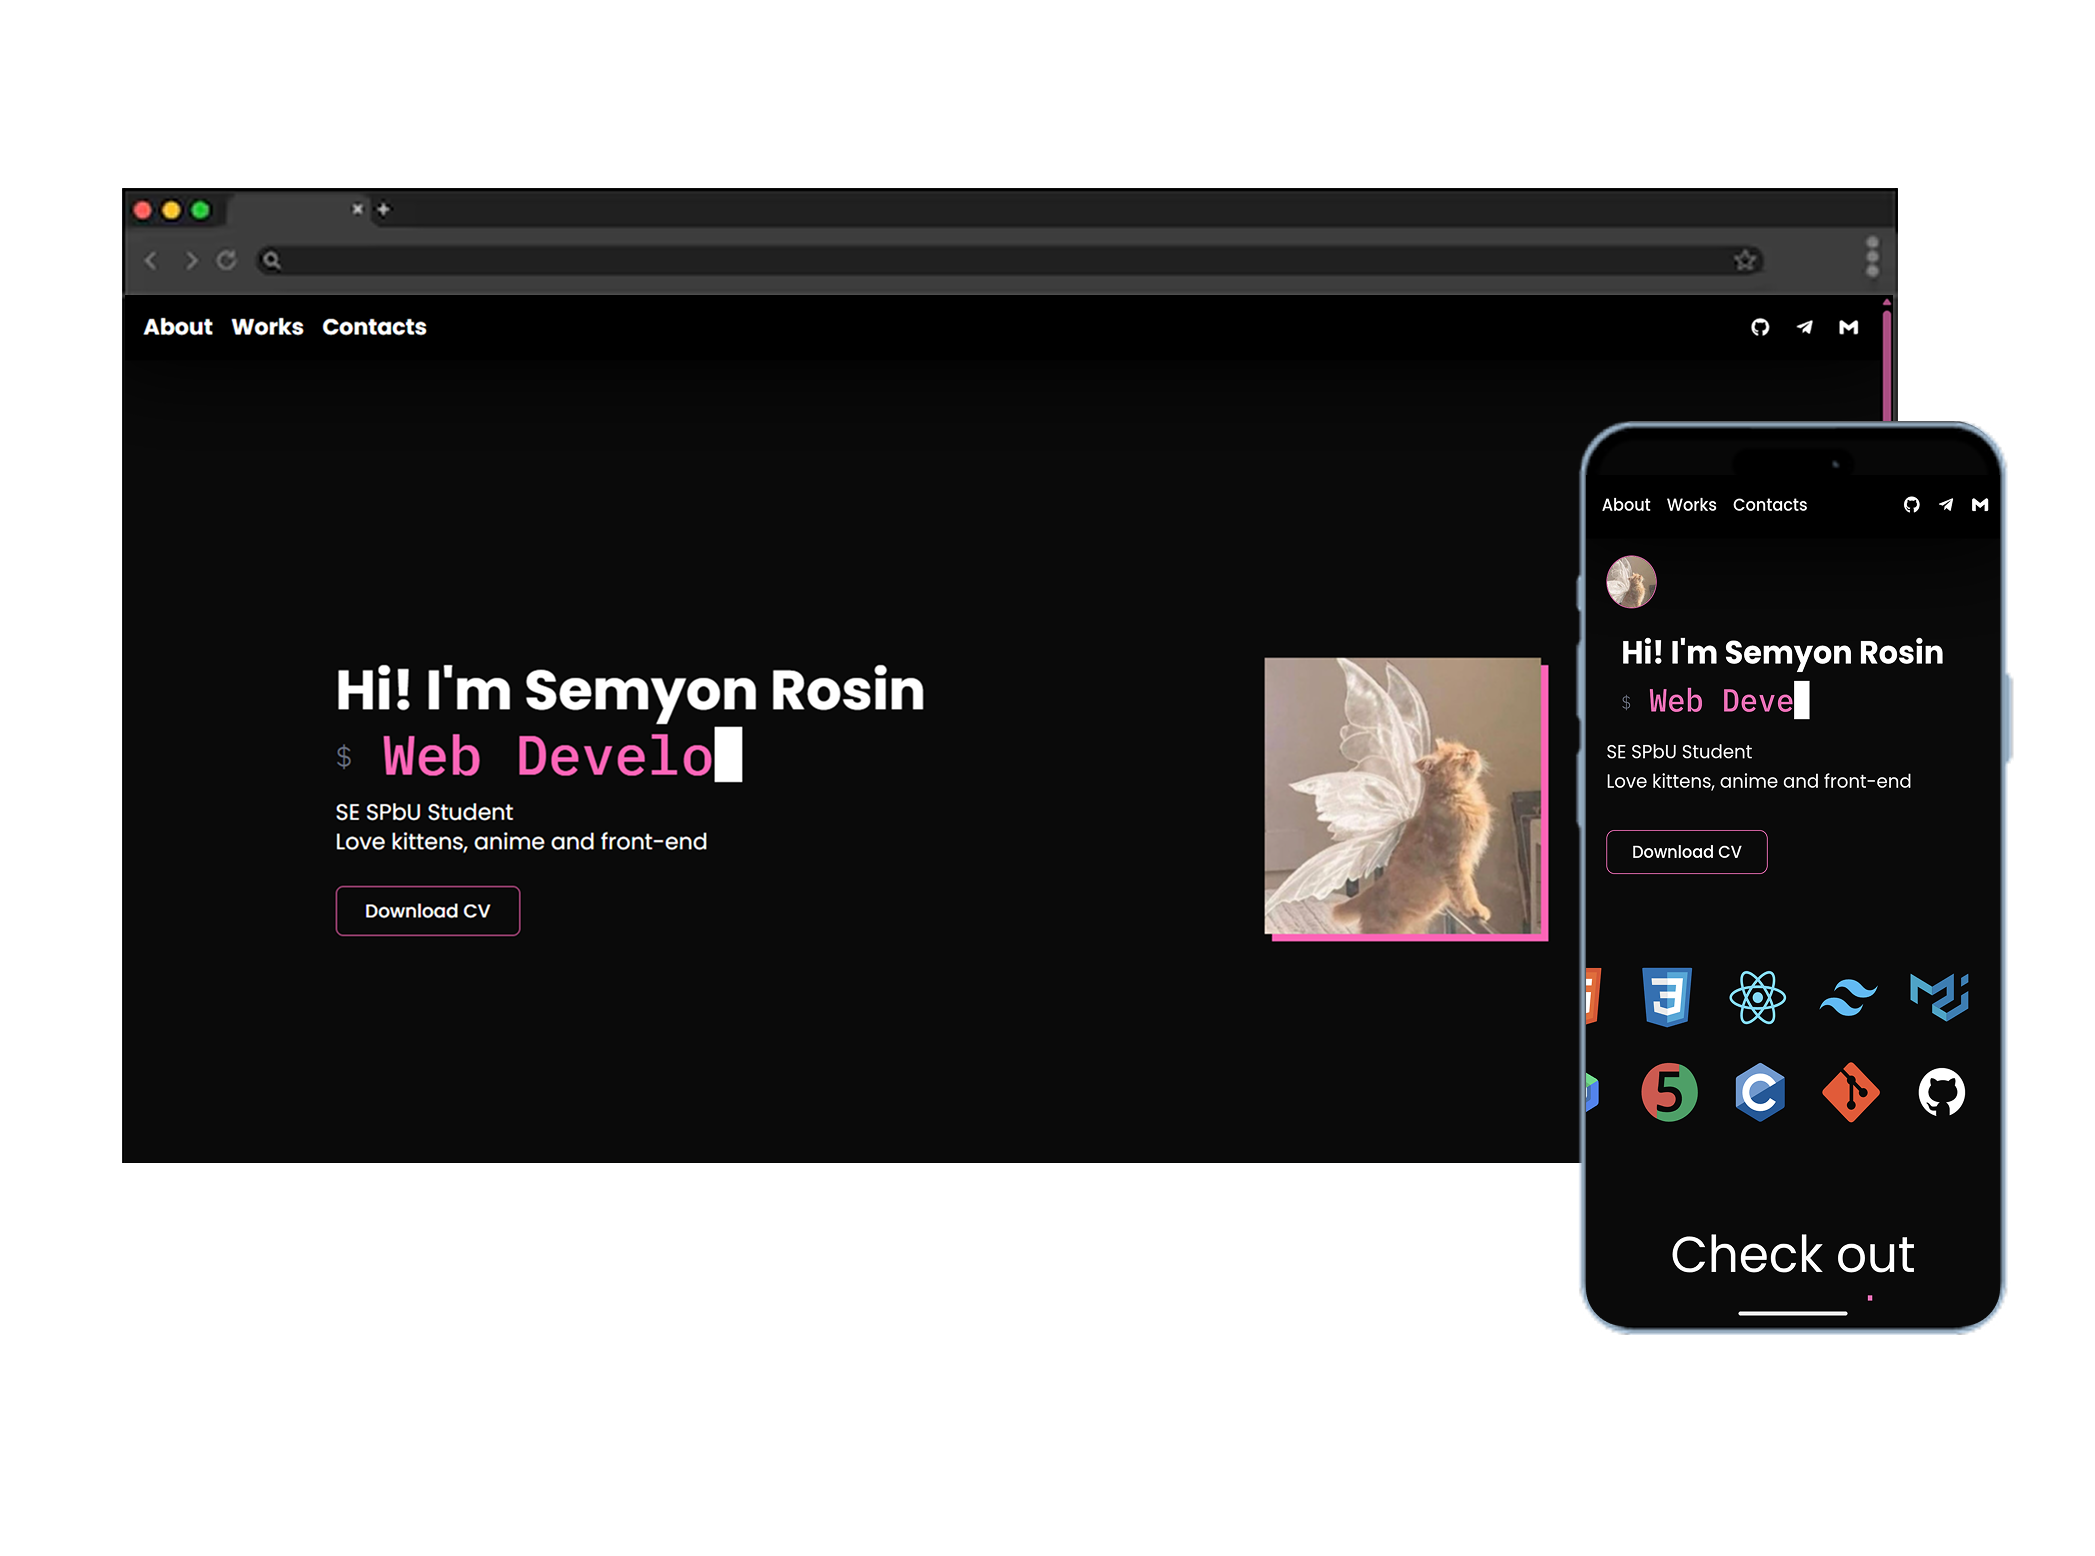
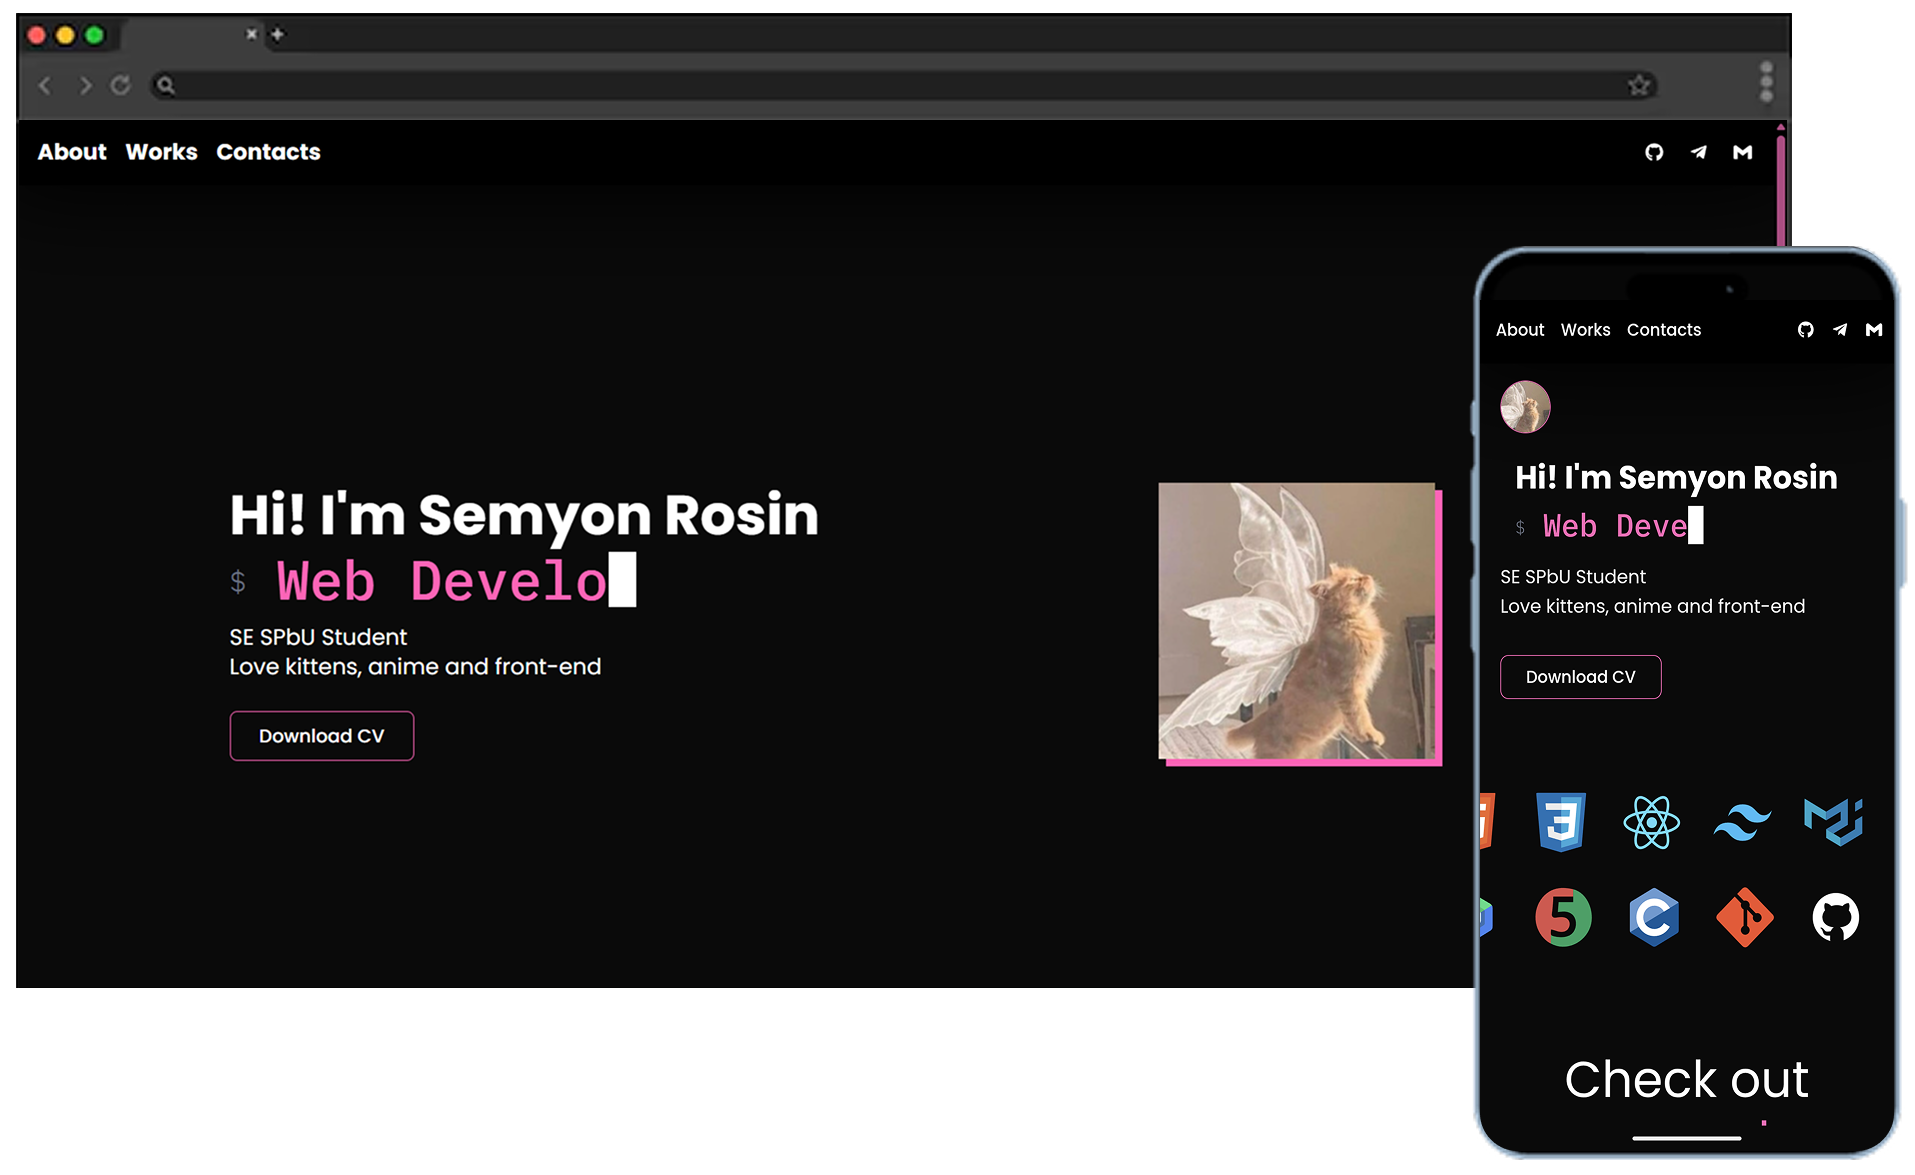
fix: pictures in project pages

diff --git a/src/sections/ProjectDetails.jsx b/src/sections/ProjectDetails.jsx
@@ -4,7 +4,7 @@ function ProjectImageSlot({ visual }) {
   const [hasImage, setHasImage] = useState(false);
 
   return (
-    <figure className="relative aspect-video overflow-hidden rounded-sm">
+    <figure className="relative aspect-video overflow-hidden rounded-md">
       {!hasImage && (
         <figcaption className="absolute inset-0 flex flex-col justify-end bg-linear-to-br from-zinc-900 via-zinc-900 to-pink-950/40 p-6">
           <p className="font-code text-sm text-pink-400">Image slot</p>
@@ -20,7 +20,7 @@ function ProjectImageSlot({ visual }) {
         onLoad={() => setHasImage(true)}
         onError={() => setHasImage(false)}
         aria-hidden={!hasImage}
-        className={`absolute inset-0 h-full w-full object-cover transition-opacity duration-300 ${
+        className={`absolute inset-0 h-full w-full object-contain transition-opacity duration-300 ${
           hasImage ? "opacity-100" : "opacity-0"
         }`}
       />
@@ -30,7 +30,7 @@ function ProjectImageSlot({ visual }) {
 
 export default function ProjectDetails({ work }) {
   return (
-    <section className="mb-16 min-h-screen px-[5%] py-12 lg:px-[8vw] lg:py-20">
+    <section className="mb-16 min-h-screen px-[5%] py-12 lg:px-[8vw] lg:py-24">
       <article className="mt-10">
         <div className="grid gap-10 lg:grid-cols-2 lg:items-center">
           <div>
@@ -38,18 +38,21 @@ export default function ProjectDetails({ work }) {
             <p className="mt-6 font-code font-bold text-lg leading-relaxed text-gray-300 xl:text-xl">
               {work.stack.join(" • ")}
             </p>
-            <p className="mt-8 text-xl leading-relaxed text-gray-300 xl:text-xl">
+            <p className="mt-4 text-xl leading-relaxed text-gray-300 xl:text-xl">
               {work.summary}
             </p>
             {work.source && (
-              <a
-                href={work.source.url}
-                target="_blank"
-                rel="noreferrer"
-                className="mt-10 inline-flex rounded-lg border border-pink-400 px-5 py-2.5 font-medium transition-all hover:bg-pink-400 hover:text-black"
-              >
-                {work.source.label}
-              </a>
+              <div className="my-12 lg:my-16">
+                <a
+                  key={work.source.url}
+                  href={work.source.url}
+                  target="_blank"
+                  rel="noreferrer"
+                  className="font-code font-medium text-md md:text-xl text-pink-400 hover:text-pink-300"
+                >
+                  {work.source.label} →
+                </a>
+              </div>
             )}
           </div>
           <div className="overflow-hidden rounded-md md:rounded-xl bg-zinc-900 shadow-[0_0_15px_rgba(244,114,182,0.18)]">

diff --git a/src/sections/Works.jsx b/src/sections/Works.jsx
@@ -32,7 +32,7 @@ export default function WorksSection({ id = "Works" }) {
         initial="hidden"
         whileInView="visible"
         viewport={{ amount: 0.05, once: true }}
-        className="flex flex-wrap content-between justify-center gap-5 mb-35 lg:mx-[8vw]"
+        className="flex flex-wrap content-between justify-center gap-8 mb-35 lg:mx-[8vw]"
       >
         {Works.map((work, index) => (
           <MWorkCard
